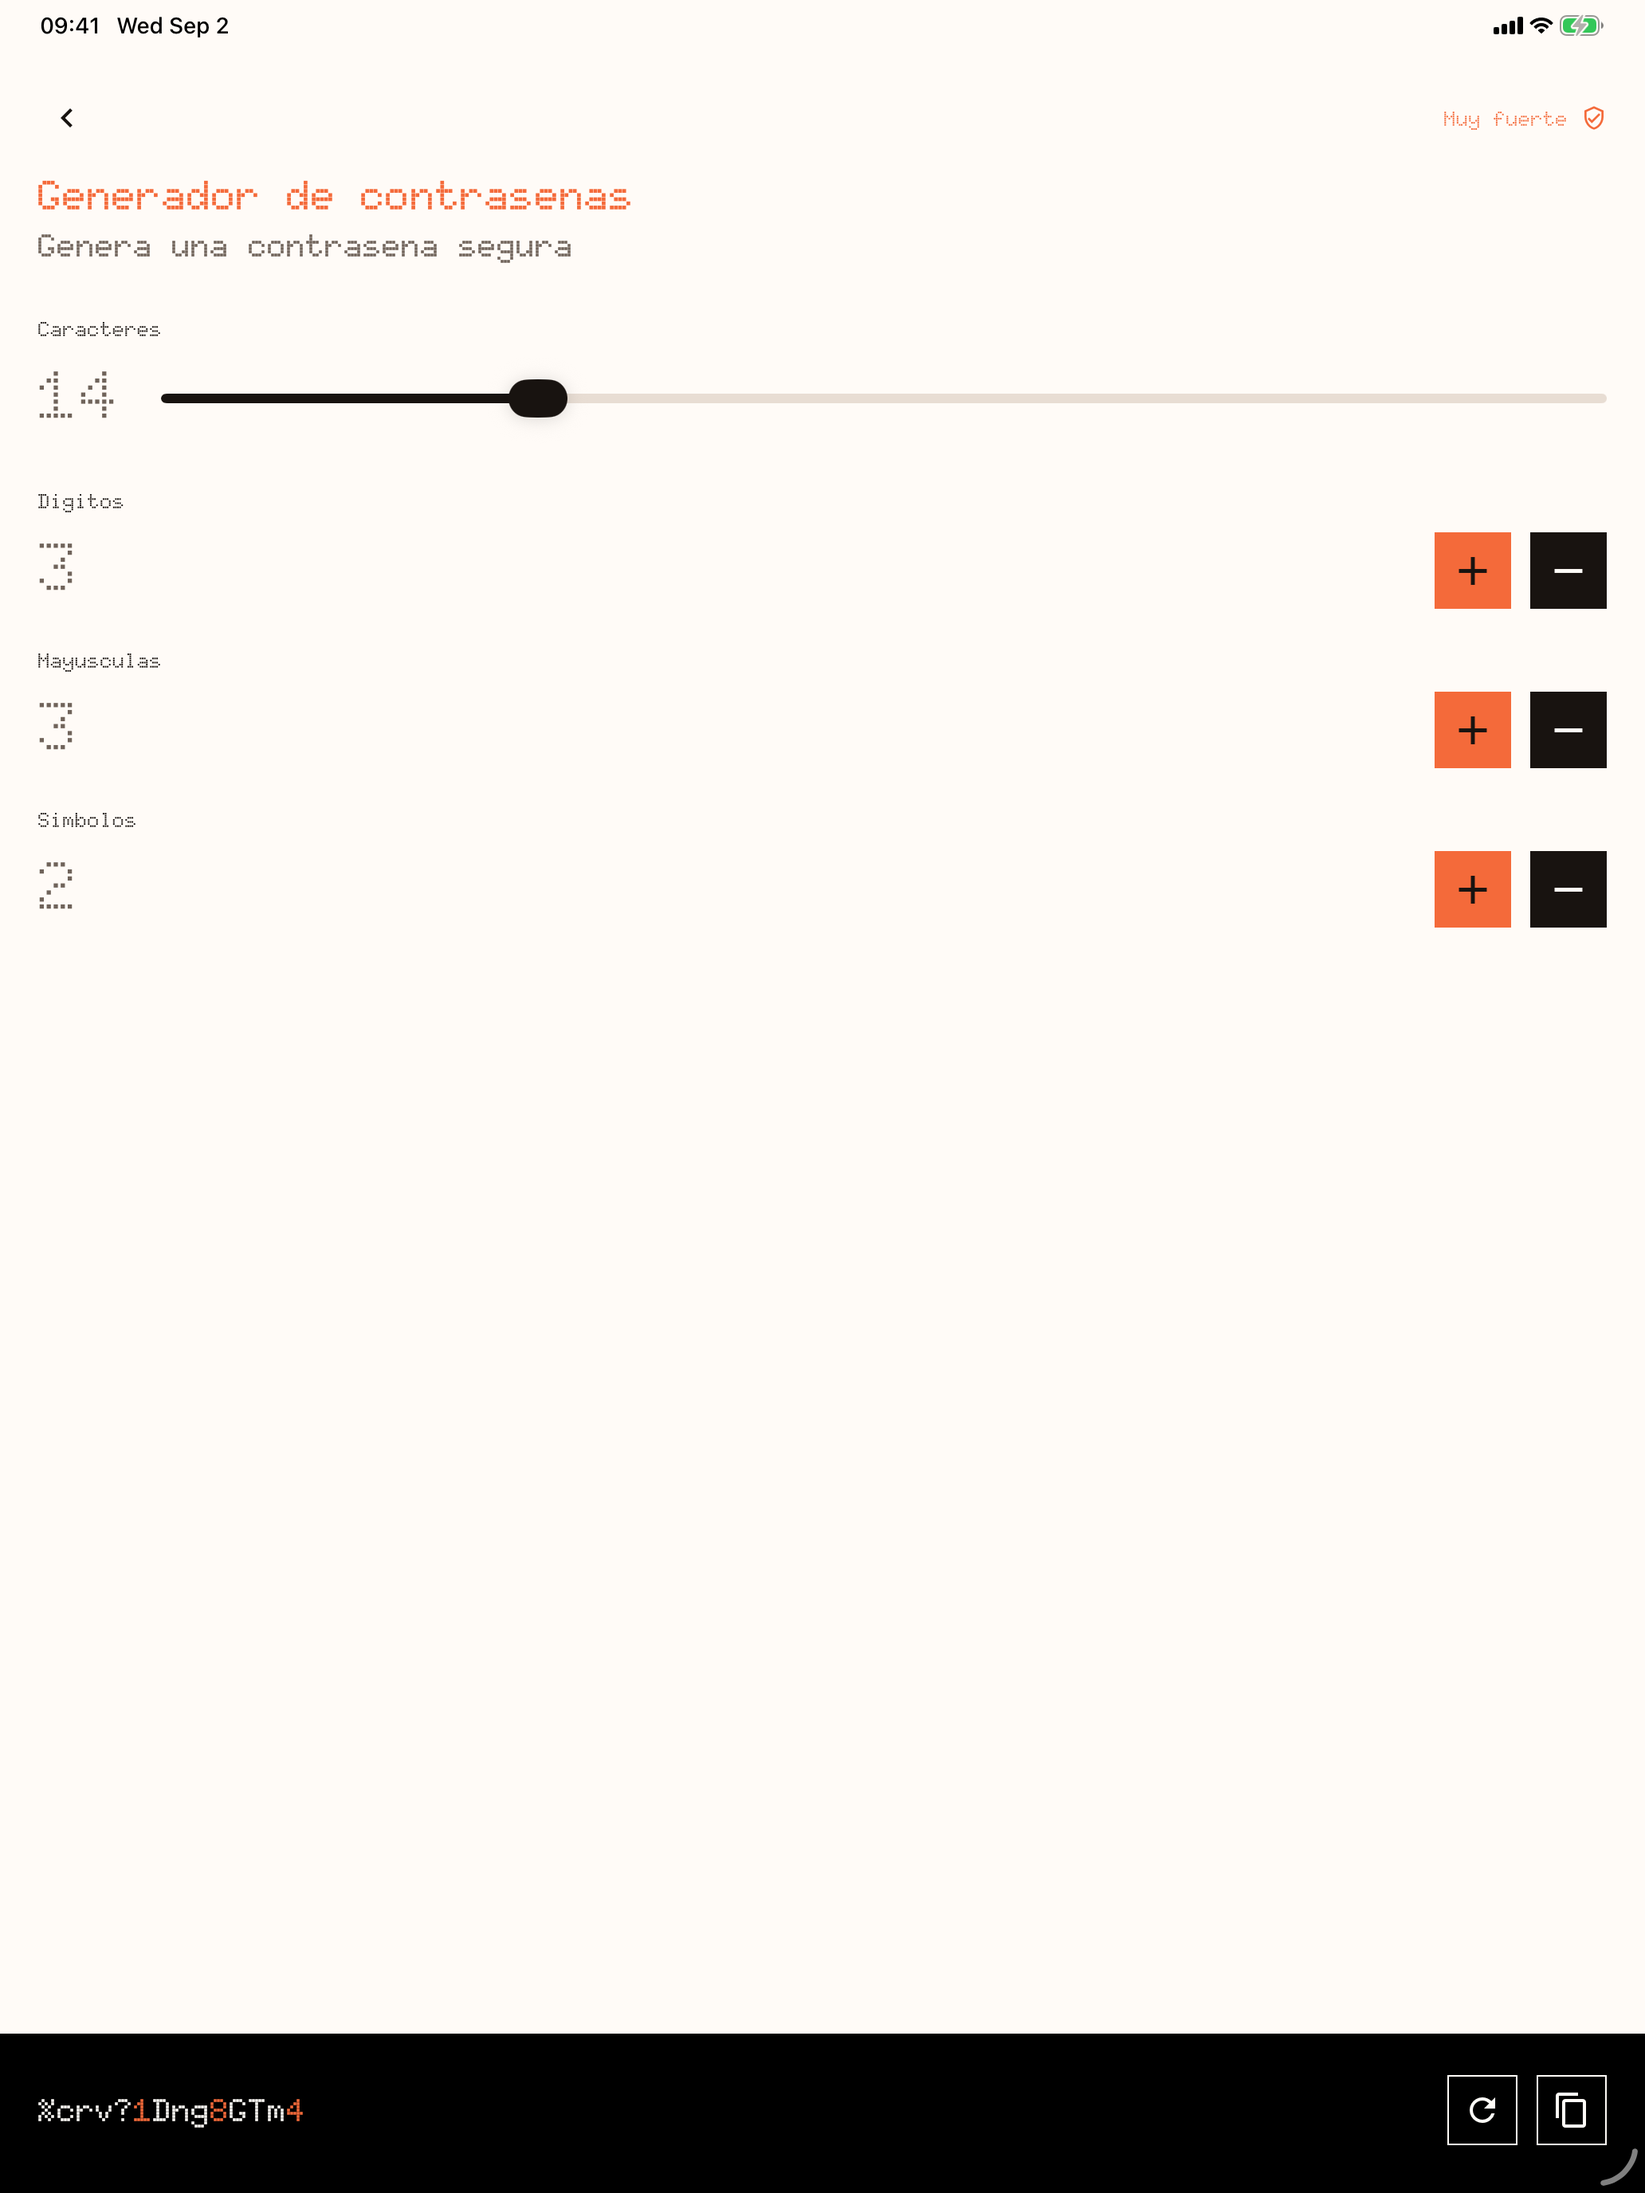
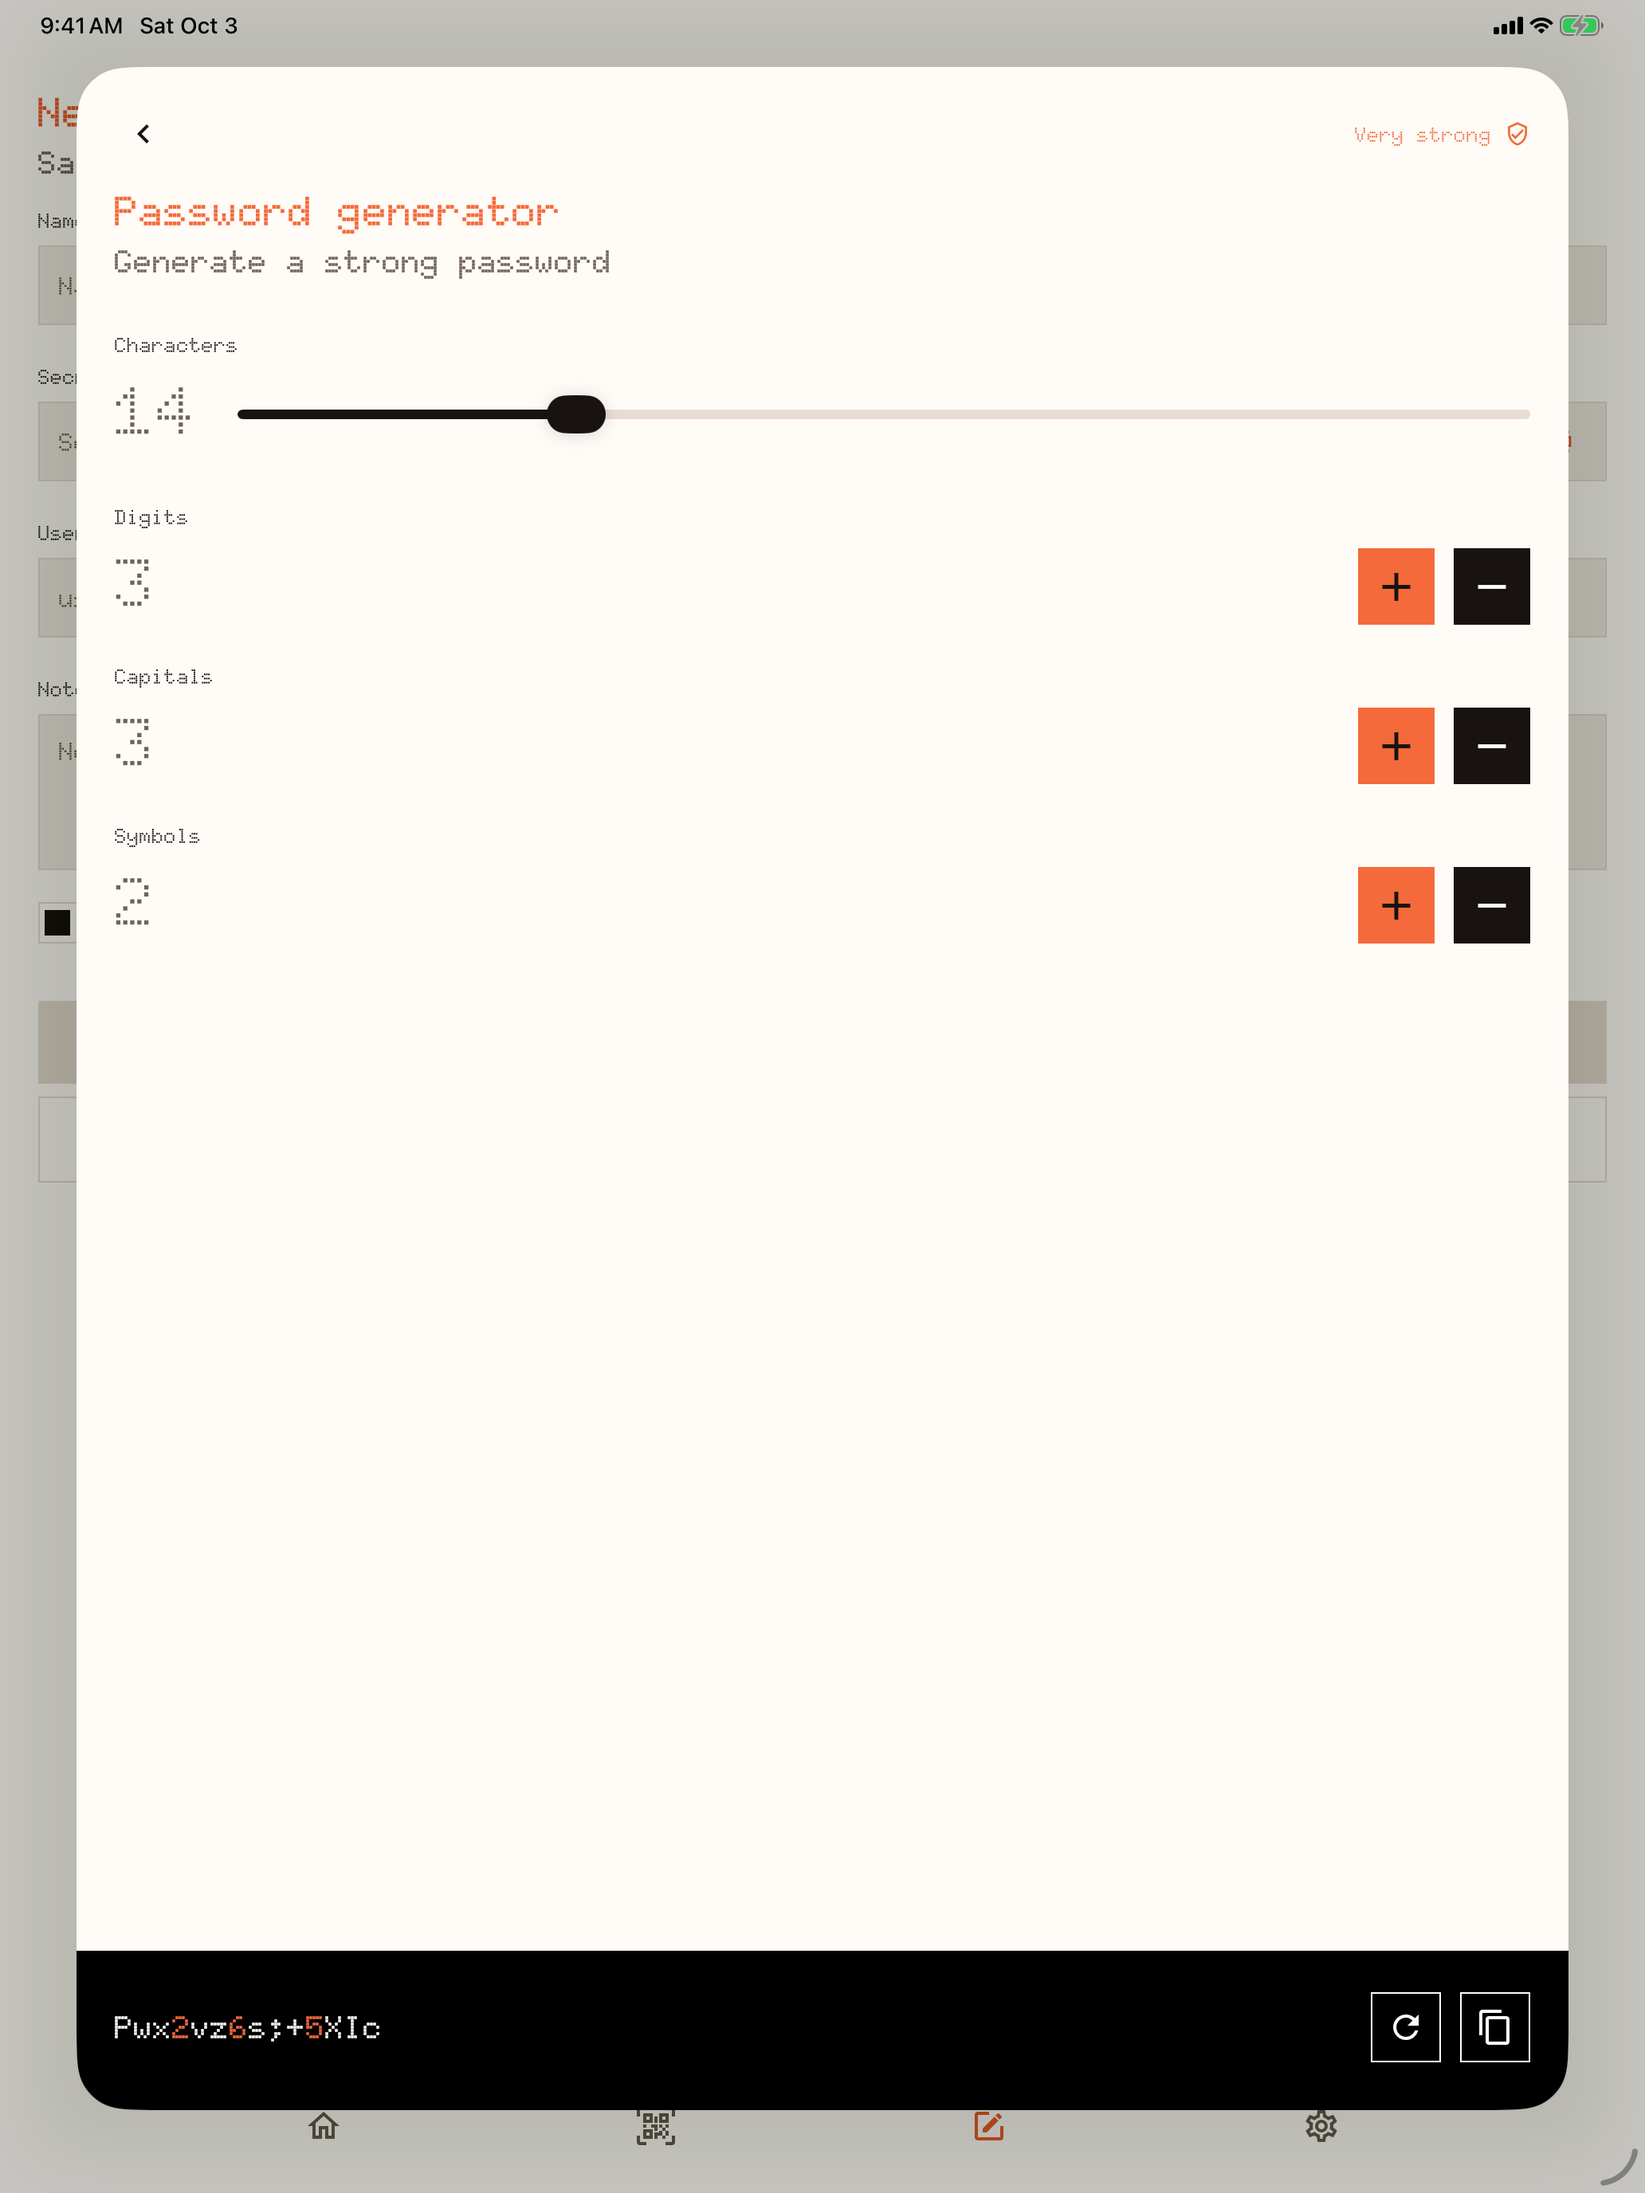
Translate the App Store screenshots to English and recapture the app in English

Changed region(s): [[0.0, 0.0, 1.0, 1.0]]

diff --git a/store-assets/app-store/1.4.14/compose_ipad_screenshots.py b/store-assets/app-store/1.4.14/compose_ipad_screenshots.py
@@ -19,65 +19,64 @@ ORANGE = "#F7683A"
 
 REPO_ROOT = ROOT.parents[2]
 FONT_DISPLAY = REPO_ROOT / "node_modules/@expo-google-fonts/doto/900Black/Doto_900Black.ttf"
-# The bundled Canela cut has no Spanish glyphs (including accents and ñ).
-# New York keeps the same editorial serif character while rendering the localized copy intact.
+# The bundled Canela cut lacks accented glyphs; New York keeps the editorial serif and renders any localized copy.
 FONT_BODY = Path("/System/Library/Fonts/NewYork.ttf")
 FONT_BODY_BOLD = REPO_ROOT / "assets/fonts/CanelaText-Bold.otf"
 
 SLIDES = [
     {
         "source": "10-home.png",
-        "output": "01-tus-secretos.png",
-        "headline": "Tus secretos.\nSolo tuyos.",
-        "subtitle": "Contraseñas, tarjetas, seeds y 2FA en una bóveda local cifrada.",
+        "output": "01-your-secrets.png",
+        "headline": "Your secrets.\nOnly yours.",
+        "subtitle": "Passwords, cards, seeds and 2FA in an encrypted local vault.",
         "theme": "light",
         "transform": "normal",
     },
     {
         "source": "20-shards.png",
-        "output": "02-divide-y-recupera.png",
-        "headline": "Divide. Separa.\nRecupera.",
-        "subtitle": "Cualquier 2 de 3 shards reconstruyen tu secreto.",
+        "output": "02-split-and-recover.png",
+        "headline": "Split. Spread.\nRecover.",
+        "subtitle": "Any 2 of 3 shards rebuild your secret.",
         "theme": "dark",
         "transform": "normal",
     },
     {
         "source": "30-totp.png",
-        "output": "03-tu-2fa.png",
-        "headline": "Tu 2FA también\nestá aquí.",
-        "subtitle": "Códigos actualizados y listos para copiar.",
+        "output": "03-your-2fa.png",
+        "headline": "Your 2FA lives\nhere too.",
+        "subtitle": "Live codes, ready to copy.",
         "theme": "light",
         "transform": "mirror",
     },
     {
         "source": "40-card.png",
-        "output": "04-mas-que-contrasenas.png",
-        "headline": "Mucho más que\ncontraseñas.",
-        "subtitle": "Guarda tarjetas y frases semilla sin mostrarlas.",
+        "output": "04-more-than-passwords.png",
+        "headline": "Much more than\npasswords.",
+        "subtitle": "Keep cards and seed phrases without revealing them.",
         "theme": "dark",
         "transform": "rotate",
     },
     {
         "source": "50-password-generator.png",
-        "output": "05-contrasenas-fuertes.png",
-        "headline": "Contraseñas fuertes,\nsin pensarlo.",
-        "subtitle": "Elige longitud, números, mayúsculas y símbolos.",
+        "output": "05-strong-passwords.png",
+        "headline": "Strong passwords,\nzero effort.",
+        "subtitle": "Pick the length, digits, capitals and symbols.",
         "theme": "light",
         "transform": "rotate",
     },
     {
         "source": "60-nfc.png",
-        "output": "06-recupera-qr-nfc.png",
-        "headline": "Recupera por QR\no split|Card NFC.",
-        "subtitle": "Lee y guarda secretos en segundos.",
+        "output": "06-recover-qr-nfc.png",
+        "headline": "Recover by QR\nor split|Card NFC.",
+        "subtitle": "Read and save secrets in seconds.",
         "theme": "dark",
         "transform": "mirror",
     },
     {
         "source": "70-settings.png",
-        "output": "07-privacidad.png",
-        "headline": "Privacidad\na tu manera.",
-        "subtitle": "Biometría, bloqueo automático, portapapeles temporal y copias cifradas.",
+        "output": "07-privacy.png",
+        "headline": "Privacy,\nyour way.",
+        "subtitle": "Biometrics, automatic lock, timed clipboard and encrypted backups.",
         "theme": "light",
         "transform": "normal",
     },
@@ -294,7 +293,7 @@ def main() -> None:
     make_contact_sheet(
         [SOURCE_DIR / slide["source"] for slide in SLIDES],
         ROOT / "source-ipad-contact-sheet.jpg",
-        [f"Fuente {index:02d}" for index in range(1, len(SLIDES) + 1)],
+        [f"Source {index:02d}" for index in range(1, len(SLIDES) + 1)],
     )
 
     print(f"Generated {len(outputs)} iPad screenshots in {FINAL_DIR}")

diff --git a/store-assets/app-store/1.4.14/compose_screenshots.py b/store-assets/app-store/1.4.14/compose_screenshots.py
@@ -24,57 +24,57 @@ FONT_BODY_BOLD = Path("/System/Library/Fonts/SFNS.ttf")
 SLIDES = [
     {
         "source": "10-home.png",
-        "output": "01-tus-secretos.png",
-        "headline": "Tus secretos.\nSolo tuyos.",
-        "subtitle": "Contraseñas, tarjetas, seeds y 2FA en una bóveda local cifrada.",
+        "output": "01-your-secrets.png",
+        "headline": "Your secrets.\nOnly yours.",
+        "subtitle": "Passwords, cards, seeds and 2FA in an encrypted local vault.",
         "theme": "light",
         "transform": "normal",
     },
     {
         "source": "20-shards.png",
-        "output": "02-divide-y-recupera.png",
-        "headline": "Divide. Separa.\nRecupera.",
-        "subtitle": "Cualquier 2 de 3 shards reconstruyen tu secreto.",
+        "output": "02-split-and-recover.png",
+        "headline": "Split. Spread.\nRecover.",
+        "subtitle": "Any 2 of 3 shards rebuild your secret.",
         "theme": "dark",
         "transform": "normal",
     },
     {
         "source": "30-totp.png",
-        "output": "03-tu-2fa.png",
-        "headline": "Tu 2FA también\nestá aquí.",
-        "subtitle": "Códigos actualizados y listos para copiar.",
+        "output": "03-your-2fa.png",
+        "headline": "Your 2FA lives\nhere too.",
+        "subtitle": "Live codes, ready to copy.",
         "theme": "light",
         "transform": "mirror",
     },
     {
         "source": "40-card.png",
-        "output": "04-mas-que-contrasenas.png",
-        "headline": "Mucho más que\ncontraseñas.",
-        "subtitle": "Guarda tarjetas y frases semilla sin mostrarlas.",
+        "output": "04-more-than-passwords.png",
+        "headline": "Much more than\npasswords.",
+        "subtitle": "Keep cards and seed phrases without revealing them.",
         "theme": "dark",
         "transform": "rotate",
     },
     {
         "source": "50-password-generator.png",
-        "output": "05-contrasenas-fuertes.png",
-        "headline": "Contraseñas fuertes,\nsin pensarlo.",
-        "subtitle": "Elige longitud, números, mayúsculas y símbolos.",
+        "output": "05-strong-passwords.png",
+        "headline": "Strong passwords,\nzero effort.",
+        "subtitle": "Pick the length, digits, capitals and symbols.",
         "theme": "light",
         "transform": "rotate",
     },
     {
         "source": "60-nfc.png",
-        "output": "06-recupera-qr-nfc.png",
-        "headline": "Recupera por QR\no split|Card NFC.",
-        "subtitle": "Lee y guarda secretos en segundos.",
+        "output": "06-recover-qr-nfc.png",
+        "headline": "Recover by QR\nor split|Card NFC.",
+        "subtitle": "Read and save secrets in seconds.",
         "theme": "dark",
         "transform": "mirror",
     },
     {
         "source": "70-settings.png",
-        "output": "07-privacidad.png",
-        "headline": "Privacidad\na tu manera.",
-        "subtitle": "Biometría, bloqueo automático, portapapeles temporal y copias cifradas.",
+        "output": "07-privacy.png",
+        "headline": "Privacy,\nyour way.",
+        "subtitle": "Biometrics, automatic lock, timed clipboard and encrypted backups.",
         "theme": "light",
         "transform": "normal",
     },
@@ -235,7 +235,7 @@ def main() -> None:
     make_contact_sheet(
         [SOURCE_DIR / slide["source"] for slide in SLIDES],
         ROOT / "source-contact-sheet.jpg",
-        [f"Fuente {index:02d}" for index in range(1, 8)],
+        [f"Source {index:02d}" for index in range(1, 8)],
     )
 
 

diff --git a/store-assets/app-store/1.4.14/README.md b/store-assets/app-store/1.4.14/README.md
@@ -16,13 +16,13 @@
 
 Upload the files in their numeric order. The first three communicate the core proposition in search and on the product page:
 
-1. Tus secretos. Solo tuyos.
-2. Divide. Separa. Recupera.
-3. Tu 2FA también está aquí.
-4. Mucho más que contraseñas.
-5. Contraseñas fuertes, sin pensarlo.
-6. Recupera por QR o split|Card NFC.
-7. Privacidad a tu manera.
+1. Your secrets. Only yours.
+2. Split. Spread. Recover.
+3. Your 2FA lives here too.
+4. Much more than passwords.
+5. Strong passwords, zero effort.
+6. Recover by QR or split|Card NFC.
+7. Privacy, your way.
 
 Apple accepts one to ten screenshots. The 6.9-inch iPhone set can supply the smaller iPhone slots automatically. The 13-inch iPad set is also required because `app.json` declares `supportsTablet: true`.
 
@@ -50,7 +50,7 @@ No hay un tag que identifique de forma inmutable el binario `1.3.0 (11)`. Este t
 
 ## Provenance and regeneration
 
-The app UI was captured natively from an iPhone 17 Pro Max simulator and an iPad Pro 13-inch simulator. Only demo records were used. The actual project source was not modified to inject the capture data; the temporary capture harness lived outside the repository.
+The app UI was captured natively in English (simulator locale `en_US`) from an iPhone 17 Pro Max simulator and an iPad Pro 13-inch simulator. Only demo records were used. The actual project source was not modified to inject the capture data; the temporary capture harness lived outside the repository.
 
 The two editorial backgrounds were created with the built-in ImageGen tool in generation mode, then composed with the real app UI. They are stored in `backgrounds/`.
 
